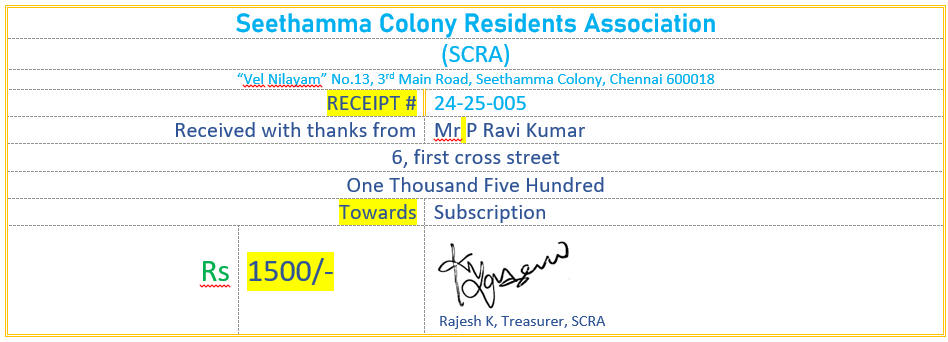
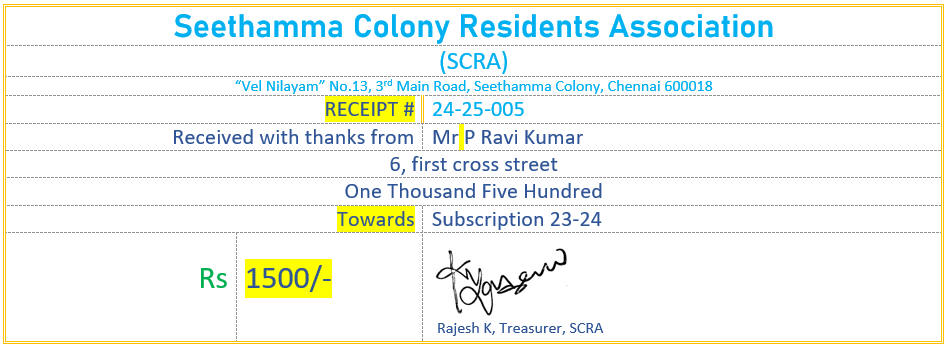
23Apr24

Changed region(s): [[0.0, 0.0, 1.0, 0.9942], [0.2148, 0.731, 0.3683, 0.8772], [0.0, 0.5556, 0.0307, 0.614]]

diff --git a/scra/Receipts/index.html b/scra/Receipts/index.html
@@ -44,78 +44,79 @@
 	<tr>
 		<td class="auto-style5" style="width: 25%">Mr Mahesh Shankar</td>
 		<td class="auto-style7" style="width: 75%">
-		<img alt="Receipt" src="img2.jpg" /></td>
+		<img alt="" src="img2.jpg" />&nbsp;</td>
 	</tr>
 	<tr>
 		<td class="auto-style5" style="width: 25%">
 		<span style="font-size: 14.0pt; line-height: 107%; font-family: &quot;Calibri&quot;,sans-serif; mso-ascii-theme-font: minor-latin; mso-fareast-font-family: Calibri; mso-fareast-theme-font: minor-latin; mso-hansi-theme-font: minor-latin; mso-bidi-font-family: Latha; mso-bidi-theme-font: minor-bidi; color: #2F5496; mso-themecolor: accent5; mso-themeshade: 191; mso-ansi-language: EN-US; mso-fareast-language: EN-US; mso-bidi-language: AR-SA">
 		Mr Vijay Jesudasan</span></td>
 		<td class="auto-style7" style="width: 75%">
-		<img alt="" src="img14.jpg" /></td>
+		<img alt="" src="img3.jpg" />&nbsp;</td>
 	</tr>
 	<tr>
 		<td class="auto-style5" style="width: 25%">Mr M Renganathan</td>
-		<td class="auto-style7" style="width: 75%"><img alt="" src="img4.jpg" /></td>
+		<td class="auto-style7" style="width: 75%"><img alt="" src="img4.jpg" />&nbsp;</td>
 	</tr>
 	<tr>
 		<td class="auto-style5" style="width: 25%">Mrs Geetha Durairaj</td>
-		<td class="auto-style7" style="width: 75%"><img alt="" src="img5.jpg" /></td>
+		<td class="auto-style7" style="width: 75%"><img alt="" src="img5.jpg" />&nbsp;</td>
 	</tr>
 	<tr>
 		<td class="auto-style5" style="width: 25%">Mr P Ravi kumar</td>
-		<td class="auto-style7" style="width: 75%"><img alt="" src="img6.jpg" /></td>
+		<td class="auto-style7" style="width: 75%"><img alt="" src="img6.jpg" />&nbsp;</td>
 	</tr>
 	<tr>
 		<td class="auto-style5" style="width: 25%">Mr Narayanaswamy Ravichandran</td>
-		<td class="auto-style7" style="width: 75%"><img alt="" src="img7.jpg" /></td>
+		<td class="auto-style7" style="width: 75%"><img alt="" src="img7.jpg" />&nbsp;</td>
 	</tr>
 	<tr>
 		<td class="auto-style5" style="width: 25%">Mr R Sundar</td>
-		<td class="auto-style7" style="width: 75%"><img alt="" src="img8.jpg" /></td>
+		<td class="auto-style7" style="width: 75%"><img alt="" src="img8.jpg" />&nbsp;</td>
 	</tr>
 	<tr>
 		<td class="auto-style5" style="width: 25%">Mr A Sridharan</td>
-		<td class="auto-style7" style="width: 75%"><img alt="" src="imgA.jpg" /></td>
+		<td class="auto-style7" style="width: 75%"><img alt="" src="img9.jpg" />&nbsp;</td>
 	</tr>
 	<tr>
 		<td class="auto-style5" style="width: 25%">Dr Guruswamy Manokaran</td>
-		<td class="auto-style7" style="width: 75%"><img alt="" src="img9.jpg" /></td>
+		<td class="auto-style7" style="width: 75%"><img alt="" src="imgA.jpg" />&nbsp;</td>
 	</tr>
 	<tr>
 		<td class="auto-style5" style="width: 25%">Mr P V Jagannathan Chetty</td>
-		<td class="auto-style7" style="width: 75%"><img alt="" src="imgC.jpg" /></td>
+		<td class="auto-style7" style="width: 75%"><img alt="" src="imgB.jpg" />&nbsp;</td>
 	</tr>
 	<tr>
 		<td class="auto-style5" style="width: 25%">Koushik Apartments</td>
-		<td class="auto-style7" style="width: 75%"><img alt="" src="imgD.jpg" /></td>
+		<td class="auto-style7" style="width: 75%"><img alt="" src="imgC.jpg" />&nbsp;</td>
 	</tr>
 	<tr>
 		<td class="auto-style5" style="width: 25%">Mr Rajaram Rajasekhar</td>
 		<td class="auto-style7" style="width: 75%">
-		<img alt="" src="img13.jpg" /></td>
+		<img alt="" src="imgD.jpg" />&nbsp;</td>
 	</tr>
 	<tr>
 		<td class="auto-style5" style="width: 25%">Mr Narayanan Chettiyar</td>
-		<td class="auto-style7" style="width: 75%"><img alt="" src="imgF.jpg" /></td>
+		<td class="auto-style7" style="width: 75%"><img alt="" src="imgE.jpg" />&nbsp;</td>
 	</tr>
 	<tr>
 		<td class="auto-style5" style="width: 25%">Mr SVM Srinivasan</td>
 		<td class="auto-style7" style="width: 75%">
-		<img alt="" src="img10.jpg" /></td>
+		<img alt="" src="imgF.jpg" />&nbsp;</td>
 	</tr>
 	<tr>
 		<td class="auto-style5" style="width: 25%">Mr Johah Stephen Jeremiah</td>
 		<td class="auto-style7" style="width: 75%">
-		<img alt="" src="img11.jpg" /></td>
+		<img alt="" src="img10.jpg" />&nbsp;</td>
 	</tr>
 	<tr>
 		<td class="auto-style5" style="width: 25%">Mr Rajammal Kasthurirangan</td>
 		<td class="auto-style7" style="width: 75%">
-		<img alt="" src="img12.jpg" /></td>
+		<img alt="" src="img11.jpg" />&nbsp;</td>
 	</tr>
 	<tr>
-		<td class="auto-style5" style="width: 25%">&nbsp;</td>
-		<td class="auto-style7" style="width: 75%">&nbsp;</td>
+		<td class="auto-style5" style="width: 25%">Sundararajan R&nbsp;</td>
+		<td class="auto-style7" style="width: 75%">
+		<img alt="" src="img12.jpg" />&nbsp;</td>
 	</tr>
 </table>
 
